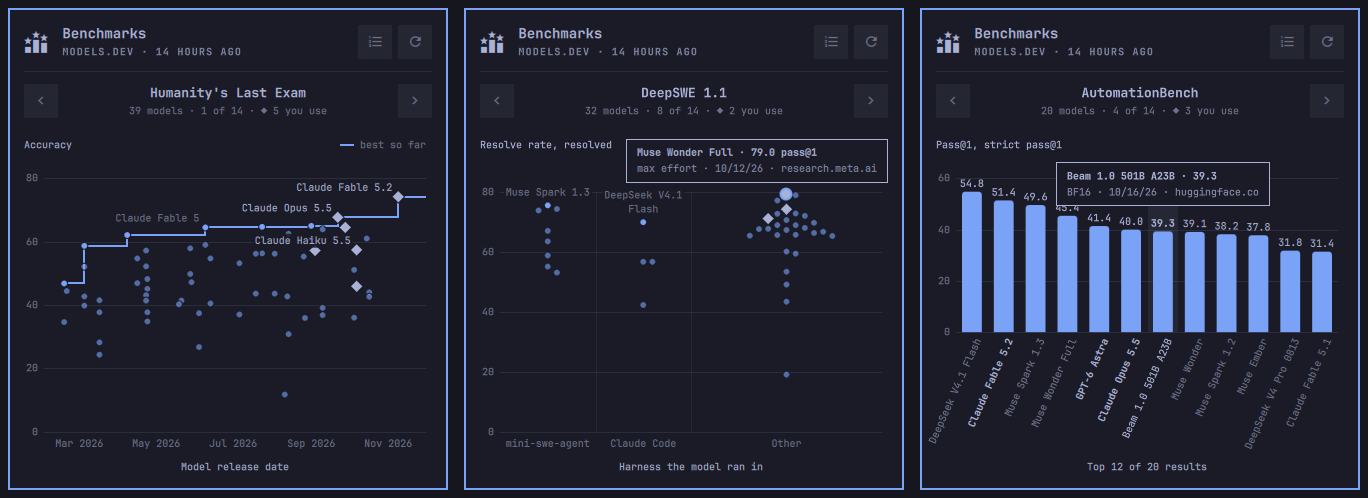
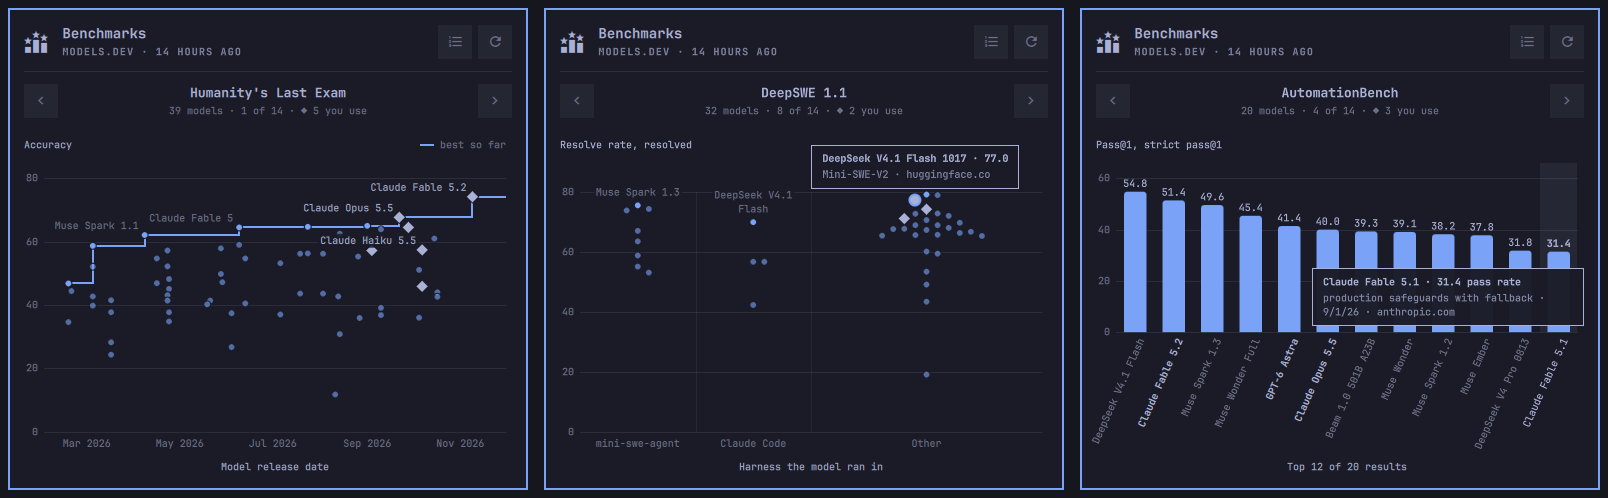
Keep results that can't be compared off a benchmark's graph
Some models report one run under two metrics (OSWorld's partial score and
its stricter completion rate), and both were ranked and drawn together.
Metrics reported against each other in the same run are now told apart,
and only the side more models report is kept. A benchmark whose metric
says less is better (an edit distance) is ranked lowest first, with its
best-so-far line following the minimum and its title saying so, and a
stray result that runs the other way from its benchmark is left out.

The card no longer repeats a metric its source only called "score".

diff --git a/Model.js b/Model.js
@@ -226,12 +226,95 @@ function median(values) {
   return sorted.length === 0 ? 0 : sorted[Math.floor(sorted.length / 2)]
 }
 
-// Every score reported for one benchmark, highest first. A model run in
+// Which way a metric runs. The data has no field for it, so the few words
+// that leave no doubt are read from the metric's name; every other metric is
+// taken as more is better.
+var LOWER_IS_BETTER = /\b(error|errors|distance|loss|perplexity)\b|\bhallucination rate\b/i
+
+function lowerIsBetter(metric) {
+  return LOWER_IS_BETTER.test(String(metric || ""))
+}
+
+// A model that reports one run (same harness, same settings) under two
+// metrics with two scores has measured two things, not named one thing
+// twice, and the two can't share an axis. One such run could be a slip in the
+// data, so it takes this many before any result is left out.
+var MIN_CLASH_RUNS = 2
+
+// The metrics to leave out of a benchmark whose results measure two things,
+// as lower-case names. Each metric takes the side opposite the ones it was
+// reported against ("partial score" against "strict success rate", "mean
+// partial score" against "binary completion rate"), the side with more
+// results stays, and on a tie the one nearer the results that took no side.
+function sideMetrics(rows) {
+  var runs = Object.create(null)
+  var counts = Object.create(null)
+  for (var i = 0; i < rows.length; i++) {
+    var metric = rows[i].metric.toLowerCase()
+    if (metric === "") continue
+    counts[metric] = (counts[metric] || 0) + 1
+    var run = rows[i].id + "\n" + harnessKey(rows[i].harness) + "\n" + rows[i].variant.toLowerCase()
+    if (!runs[run]) runs[run] = Object.create(null)
+    if (!(metric in runs[run])) runs[run][metric] = rows[i].score
+  }
+
+  var against = Object.create(null)
+  var clashes = 0
+  for (var key in runs) {
+    var names = Object.keys(runs[key])
+    var clashed = false
+    for (var a = 0; a < names.length; a++) {
+      for (var b = a + 1; b < names.length; b++) {
+        if (runs[key][names[a]] === runs[key][names[b]]) continue
+        if (!against[names[a]]) against[names[a]] = Object.create(null)
+        if (!against[names[b]]) against[names[b]] = Object.create(null)
+        against[names[a]][names[b]] = true
+        against[names[b]][names[a]] = true
+        clashed = true
+      }
+    }
+    if (clashed) clashes++
+  }
+  var out = Object.create(null)
+  if (clashes < MIN_CLASH_RUNS) return out
+
+  // The commonest metric takes the first side, and each one after it the
+  // first side none of the metrics it was reported against has taken.
+  var order = Object.keys(against).sort(function(x, y) { return counts[y] - counts[x] || (x < y ? -1 : 1) })
+  var side = Object.create(null)
+  var sides = []
+  order.forEach(function(name) {
+    var at = 0
+    while (order.some(function(other) { return against[name][other] === true && side[other] === at })) at++
+    side[name] = at
+    if (!sides[at]) sides[at] = { count: 0, scores: [] }
+    sides[at].count += counts[name]
+  })
+
+  var apart = []
+  for (var j = 0; j < rows.length; j++) {
+    var at = side[rows[j].metric.toLowerCase()]
+    if (at === undefined) apart.push(rows[j].score)
+    else sides[at].scores.push(rows[j].score)
+  }
+  var keep = 0
+  for (var k = 1; k < sides.length; k++) {
+    var closer = apart.length > 0 && Math.abs(median(sides[k].scores) - median(apart)) < Math.abs(median(sides[keep].scores) - median(apart))
+    if (sides[k].count > sides[keep].count || (sides[k].count === sides[keep].count && closer)) keep = k
+  }
+  order.forEach(function(name) { if (side[name] !== keep) out[name] = true })
+  return out
+}
+
+// Every score reported for one benchmark, best first. A model run in
 // several harnesses or settings keeps a row for each, since those are
 // different results and choosing one would be a ranking of our own. `used`
-// (from parseUsed) marks the models this machine has used. The odd
-// score on another scale (a win rate among Elo ratings) is left out, because
-// sorting it in would be wrong.
+// (from parseUsed) marks the models this machine has used. Results that
+// can't be sorted in with the rest are left out, because ranking them would
+// be wrong: the odd score on another scale (a win rate among Elo ratings), a
+// second metric the same runs were also reported under, and a metric that
+// runs the other way from the benchmark's own. Each row's `lower` says
+// whether less is better on this benchmark.
 function rows(models, key, used) {
   var out = []
   for (var i = 0; i < models.length; i++) {
@@ -260,11 +343,19 @@ function rows(models, key, used) {
 
   var large = median(out.map(function(row) { return row.score })) > 100
   out = out.filter(function(row) { return (row.score > 100) === large })
-  out.sort(function(a, b) { return b.score - a.score || (a.name < b.name ? -1 : a.name > b.name ? 1 : 0) })
+
+  var aside = sideMetrics(out)
+  out = out.filter(function(row) { return aside[row.metric.toLowerCase()] !== true })
+
+  var lower = out.filter(function(row) { return lowerIsBetter(row.metric) }).length * 2 > out.length
+  out = out.filter(function(row) { return lowerIsBetter(row.metric) === lower })
+
+  out.sort(function(a, b) { return (lower ? a.score - b.score : b.score - a.score) || (a.name < b.name ? -1 : a.name > b.name ? 1 : 0) })
   out = out.slice(0, MAX_ROWS)
   for (var k = 0; k < out.length; k++) {
     out[k].rank = k + 1
     out[k].decimals = large ? 0 : 1
+    out[k].lower = lower
   }
   return out
 }
@@ -376,7 +467,8 @@ function valueAxis(low, high, fromZero) {
 // zero, or with fromZero false, dots on an axis that keeps to the scores.
 function columnsChart(rows, fromZero) {
   var shown = rows.slice(0, MAX_COLUMNS)
-  var axis = valueAxis(shown[shown.length - 1].score, shown[0].score, fromZero)
+  var ends = [shown[0].score, shown[shown.length - 1].score]
+  var axis = valueAxis(Math.min.apply(null, ends), Math.max.apply(null, ends), fromZero)
   var items = []
   var order = []
   for (var i = 0; i < shown.length; i++) {
@@ -449,14 +541,16 @@ function timeChart(rows, dated) {
   var scores = dated.map(function(index) { return rows[index].score })
   var axis = valueAxis(Math.min.apply(null, scores), Math.max.apply(null, scores), false)
 
-  // The best score so far, walking forward in time.
+  // The best score so far, walking forward in time: the highest, or the
+  // lowest on a benchmark where less is better.
+  var lower = rows[0].lower === true
   var byTime = dated.map(function(index, position) { return { row: index, day: days[position], score: rows[index].score } })
-  byTime.sort(function(a, b) { return a.day - b.day || b.score - a.score })
-  var best = -Infinity
+  byTime.sort(function(a, b) { return a.day - b.day || (lower ? a.score - b.score : b.score - a.score) })
+  var best = lower ? Infinity : -Infinity
   var records = {}
   var steps = []
   for (var i = 0; i < byTime.length; i++) {
-    if (byTime[i].score <= best) continue
+    if (lower ? byTime[i].score >= best : byTime[i].score <= best) continue
     best = byTime[i].score
     records[byTime[i].row] = true
     steps.push({ row: byTime[i].row, x: (byTime[i].day - start) / (end - start), y: (best - axis.min) / (axis.max - axis.min) })
@@ -527,16 +621,17 @@ function shapedChart(rows) {
     var days = dated.map(function(index) { return dayNumber(rows[index].when) })
     if (Math.max.apply(null, days) - Math.min.apply(null, days) >= TIME_MIN_DAYS) return timeChart(rows, dated)
   }
-  return columnsChart(rows, rows[0].score <= 100)
+  return columnsChart(rows, Math.max(rows[0].score, rows[rows.length - 1].score) <= 100)
 }
 
 // The graph for one benchmark's rows, with `metrics` naming what the results
-// drawn on it measure.
+// drawn on it measure and `lower` saying whether less is better.
 function chart(rows) {
-  if (!rows || rows.length === 0) return { form: "", axis: null, items: [], order: [], total: 0, strips: [], steps: [], xTicks: [], metrics: [] }
+  if (!rows || rows.length === 0) return { form: "", axis: null, items: [], order: [], total: 0, strips: [], steps: [], xTicks: [], metrics: [], lower: false }
 
   var spec = shapedChart(rows)
   spec.metrics = metricNames(spec.order.map(function(index) { return rows[index] }))
+  spec.lower = rows[0].lower === true
   return spec
 }
 

diff --git a/tests/model.test.js b/tests/model.test.js
@@ -300,6 +300,87 @@ test("the value axis is titled with the metric most results name", () => {
   assert.deepEqual(Model.chart([]).metrics, [])
 })
 
+// The rows of a benchmark whose models each report the given results.
+function benchRows(models) {
+  const parsed = Model.parse(response(Object.entries(models).map(([id, results]) =>
+    model("lab/" + id, results.map(result => Object.assign({ name: "Bench" }, result)))))).models
+  return Model.rows(parsed, parsed[0].entries[0].key)
+}
+
+test("a second metric the same runs were also reported under is left out", () => {
+  // Three models give a lenient and a strict number for one run; three more
+  // give one number, under another name for the lenient one.
+  const rows = benchRows({
+    a: [{ score: 78, metric: "mean partial score", variant: "max" }, { score: 39, metric: "binary completion rate", variant: "max" }],
+    b: [{ score: 72, metric: "mean partial score", variant: "max" }, { score: 34, metric: "binary completion rate", variant: "max" }],
+    c: [{ score: 69, metric: "mean partial score", variant: "max" }, { score: 33, metric: "binary completion rate", variant: "max" }],
+    d: [{ score: 89, metric: "partial score" }],
+    e: [{ score: 80, metric: "partial score" }],
+    f: [{ score: 72, metric: "partial score" }]
+  })
+  assert.deepEqual(rows.map(row => row.score), [89, 80, 78, 72, 72, 69])
+  assert.ok(rows.every(row => row.metric !== "binary completion rate"))
+})
+
+test("metrics reported against each other take opposite sides, and the fuller side stays", () => {
+  // "partial score" and "mean partial score" never meet in one run, but each
+  // is reported against a strict metric, and one of those against both.
+  const rows = benchRows({
+    a: [{ score: 77, metric: "partial score" }, { score: 41, metric: "strict success rate" }],
+    b: [{ score: 66, metric: "mean partial score" }, { score: 32, metric: "binary completion rate" }],
+    c: [{ score: 52, metric: "partial score" }, { score: 19, metric: "binary completion rate" }],
+    d: [{ score: 81, metric: "partial score" }],
+    e: [{ score: 60, metric: "success rate" }]
+  })
+  assert.deepEqual(rows.map(row => row.metric), ["partial score", "partial score", "mean partial score", "success rate", "partial score"])
+})
+
+test("one doubled run, or one number under two names, leaves nothing out", () => {
+  const once = benchRows({
+    a: [{ score: 70, metric: "pass@1" }, { score: 64, metric: "success rate" }],
+    b: [{ score: 60, metric: "pass@1" }],
+    c: [{ score: 50, metric: "success rate" }]
+  })
+  assert.equal(once.length, 4)
+
+  const renamed = benchRows({
+    a: [{ score: 70, metric: "pass@1" }, { score: 70, metric: "success rate" }],
+    b: [{ score: 60, metric: "pass@1" }, { score: 60, metric: "success rate" }]
+  })
+  assert.equal(renamed.length, 4)
+
+  // Two harnesses are two runs, whatever their metrics are called.
+  const harnesses = benchRows({
+    a: [{ score: 70, metric: "pass@1", harness: "Codex" }, { score: 64, metric: "success rate", harness: "Claude Code" }],
+    b: [{ score: 60, metric: "pass@1", harness: "Codex" }, { score: 55, metric: "success rate", harness: "Claude Code" }]
+  })
+  assert.equal(harnesses.length, 4)
+})
+
+test("a benchmark where less is better ranks and tracks its best the other way up", () => {
+  const months = ["2025-01-10", "2025-04-10", "2025-07-10", "2025-10-10", "2026-01-10", "2026-04-10", "2026-07-10", "2026-10-10"]
+  const scores = [0.9, 0.7, 0.8, 0.5, 0.6, 0.3, 0.4, 0.2]
+  const parsed = Model.parse(response(scores.map((score, i) => ({
+    id: "lab/d" + i, name: "Model " + i, released: months[i],
+    benchmarks: [{ name: "Bench", score, metric: "overall edit distance" }]
+  })).concat([model("lab/odd", [{ name: "Bench", score: 0.95, metric: "accuracy" }])]))).models
+  const rows = Model.rows(parsed, parsed[0].entries[0].key)
+  // The lowest is first, and the one result that runs the other way is gone.
+  assert.deepEqual(rows.map(row => row.score), [0.2, 0.3, 0.4, 0.5, 0.6, 0.7, 0.8, 0.9])
+  assert.equal(rows[0].rank, 1)
+
+  const chart = Model.chart(rows)
+  assert.equal(chart.form, "time")
+  assert.equal(chart.lower, true)
+  // Each record is lower than the one before it.
+  assert.deepEqual(chart.steps.map(step => rows[step.row].score), [0.9, 0.7, 0.5, 0.3, 0.2])
+
+  // A stray lower-is-better result doesn't turn a benchmark over.
+  const usual = benchRows({ a: [{ score: 80, metric: "accuracy" }], b: [{ score: 70, metric: "accuracy" }], c: [{ score: 5, metric: "error rate" }] })
+  assert.deepEqual(usual.map(row => row.score), [80, 70])
+  assert.equal(Model.chart(usual).lower, false)
+})
+
 test("an impossible date is no date", () => {
   const parsed = Model.parse(response([
     Object.assign(model("lab/a", [{ name: "Bench", score: 1, date: "2026-13-40" }]), { released: "0000-00-00" }),

diff --git a/Panel.qml b/Panel.qml
@@ -75,18 +75,30 @@ Panel {
   readonly property var cursorRow: chartShown && cursorActive && selectedIndex < rows.length ? rows[selectedIndex] : null
   readonly property string tipTitle: {
     if (cursorRow === null) return ""
-    // Where the results don't all name one metric, the score says its own.
+    // Where the results don't all name one metric, the score says its own,
+    // unless all its source called it was "score".
     var score = Commons.I18n.formatNumber(cursorRow.score, cursorRow.decimals)
-    return cursorRow.name + " · " + (chart.metrics.length > 1 && cursorRow.metric !== "" ? strings.t("chart.scoreAs").arg(score).arg(cursorRow.metric) : score)
+    var named = chart.metrics.length > 1 && cursorRow.metric !== "" && cursorRow.metric.toLowerCase() !== "score"
+    return cursorRow.name + " · " + (named ? strings.t("chart.scoreAs").arg(score).arg(cursorRow.metric) : score)
   }
-  readonly property string tipDetail: cursorRow !== null ? rowSummary(cursorRow) : ""
+  readonly property string tipDetail: {
+    if (cursorRow === null) return ""
+    var parts = rowParts(cursorRow)
+    var host = Model.urlHost(cursorRow.source)
+    if (host !== "") parts.push(host)
+    return parts.join(" · ")
+  }
 
   // The value axis's title: the metric in its sources' words, or just "Score"
   // where they name none.
   readonly property string valueTitle: {
-    if (chart.metrics.length === 0) return strings.t("axis.score")
-    var text = chart.metrics.join(", ")
-    return text.charAt(0).toUpperCase() + text.slice(1)
+    var text = strings.t("axis.score")
+    if (chart.metrics.length > 0) {
+      text = chart.metrics.join(", ")
+      text = text.charAt(0).toUpperCase() + text.slice(1)
+    }
+    // The graphs are read as higher is better unless one says otherwise.
+    return chart.lower ? strings.t("axis.lower").arg(text) : text
   }
   // The other axis's: dates and harnesses need saying, and so does a graph
   // that shows only the top results. Models named under their columns don't.
@@ -226,7 +238,8 @@ Panel {
     })
   }
 
-  function rowDetail(row) {
+  // What a score was reported with: the harness, the settings and the date.
+  function rowParts(row) {
     var parts = []
     if (row.harness !== "") parts.push(row.harness)
     if (row.variant !== "") parts.push(row.variant)
@@ -234,6 +247,11 @@ Panel {
       var bits = row.date.split("-")
       parts.push(new Date(Number(bits[0]), Number(bits[1]) - 1, Number(bits[2])).toLocaleDateString(Qt.locale(Commons.I18n.formatLocale), Locale.ShortFormat))
     }
+    return parts
+  }
+
+  function rowDetail(row) {
+    var parts = rowParts(row)
     return parts.length > 0 ? parts.join(" · ") : row.metric
   }
 

diff --git a/README.md b/README.md
@@ -4,7 +4,7 @@ An [Omarchy](https://omarchy.org) shell plugin: a bar icon that opens a panel of
 
 ![The Benchmarks panel showing three kinds of graph](preview.png)
 
-The scores are [models.dev](https://models.dev)'s (MIT), which records for each one the page it was taken from. The plugin only fetches, checks and shows them. It computes no ranking of its own: every reported result is shown, sorted by score, with the harness, settings and date it was reported with.
+The scores are [models.dev](https://models.dev)'s (MIT), which records for each one the page it was taken from. The plugin only fetches, checks and shows them. It computes no ranking of its own: every reported result that can be compared is shown, best first, with the harness, settings and date it was reported with.
 
 ## Install
 
@@ -53,7 +53,7 @@ Every graph names its axes, and no more than that:
 
 On a graph over time, the line is the best score so far, as the key beside the title says. A diamond is a model you use.
 
-Point at a result, or step through them best first with Up and Down, and a card beside its mark says which one it is and what its score was reported with, including its own metric where the benchmark's results name more than one. Enter or a click opens its source, as in the list.
+Point at a result, or step through them best first with Up and Down, and a card says which one it is and what its score was reported with, including its own metric where the benchmark's results name more than one. The card sits beside a dot, and at the foot of a column so that it covers no other column's score. Enter or a click opens its source, as in the list.
 
 V switches to the list, which has every result with its details, for as long as the shell runs. To open on the list every time:
 
@@ -68,6 +68,14 @@ One request, to `https://models.dev/models.json`, and only when the panel is ope
 ## Reading the scores
 
 Most are reported by the model's own maker, and the same model can score differently in different harnesses or at different effort settings, which is why those are on each row. Enter on a row shows where its number came from.
+
+A result is left out only where ranking it with the rest would be wrong:
+
+- **Another scale.** A win rate among Elo ratings, say.
+- **A second metric for the same run.** Some models report one run under two metrics, such as OSWorld's partial score and its stricter completion rate. Those are two measurements, so they can't share an axis. The one more models report stays; where that is a tie, the one closer to the benchmark's other results does.
+- **A metric that runs the other way.** A stray error rate on a benchmark scored by accuracy.
+
+Where a benchmark's own metric says less is better (an edit distance, an error rate), the lowest score comes first, the line follows the lowest so far, and the graph's title says so. Nothing in the data says which way a metric runs, so this is read from a few words in its name, and any other metric is taken as higher is better.
 
 ## Tests
 
